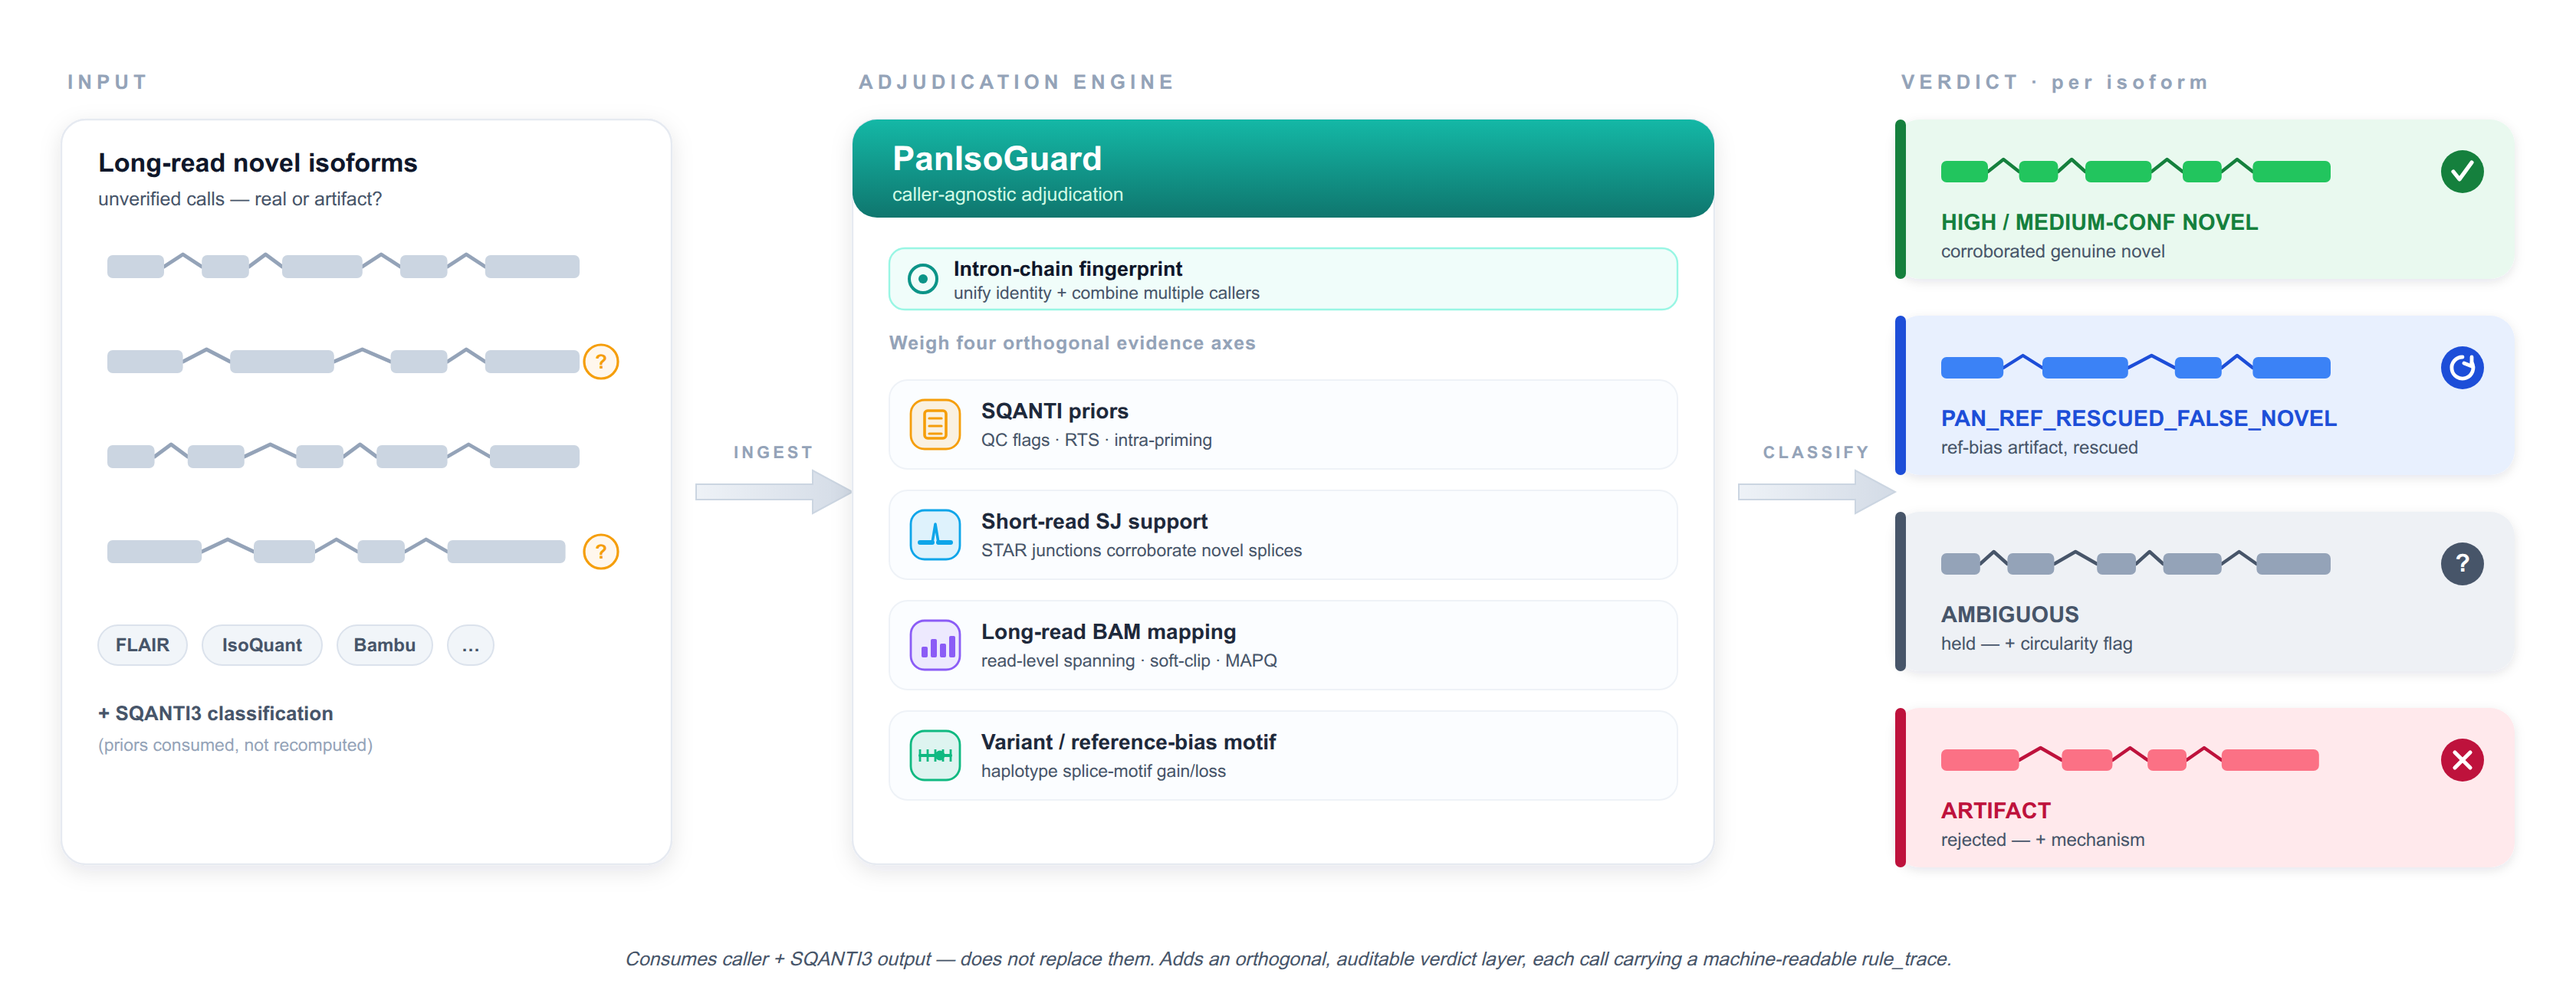
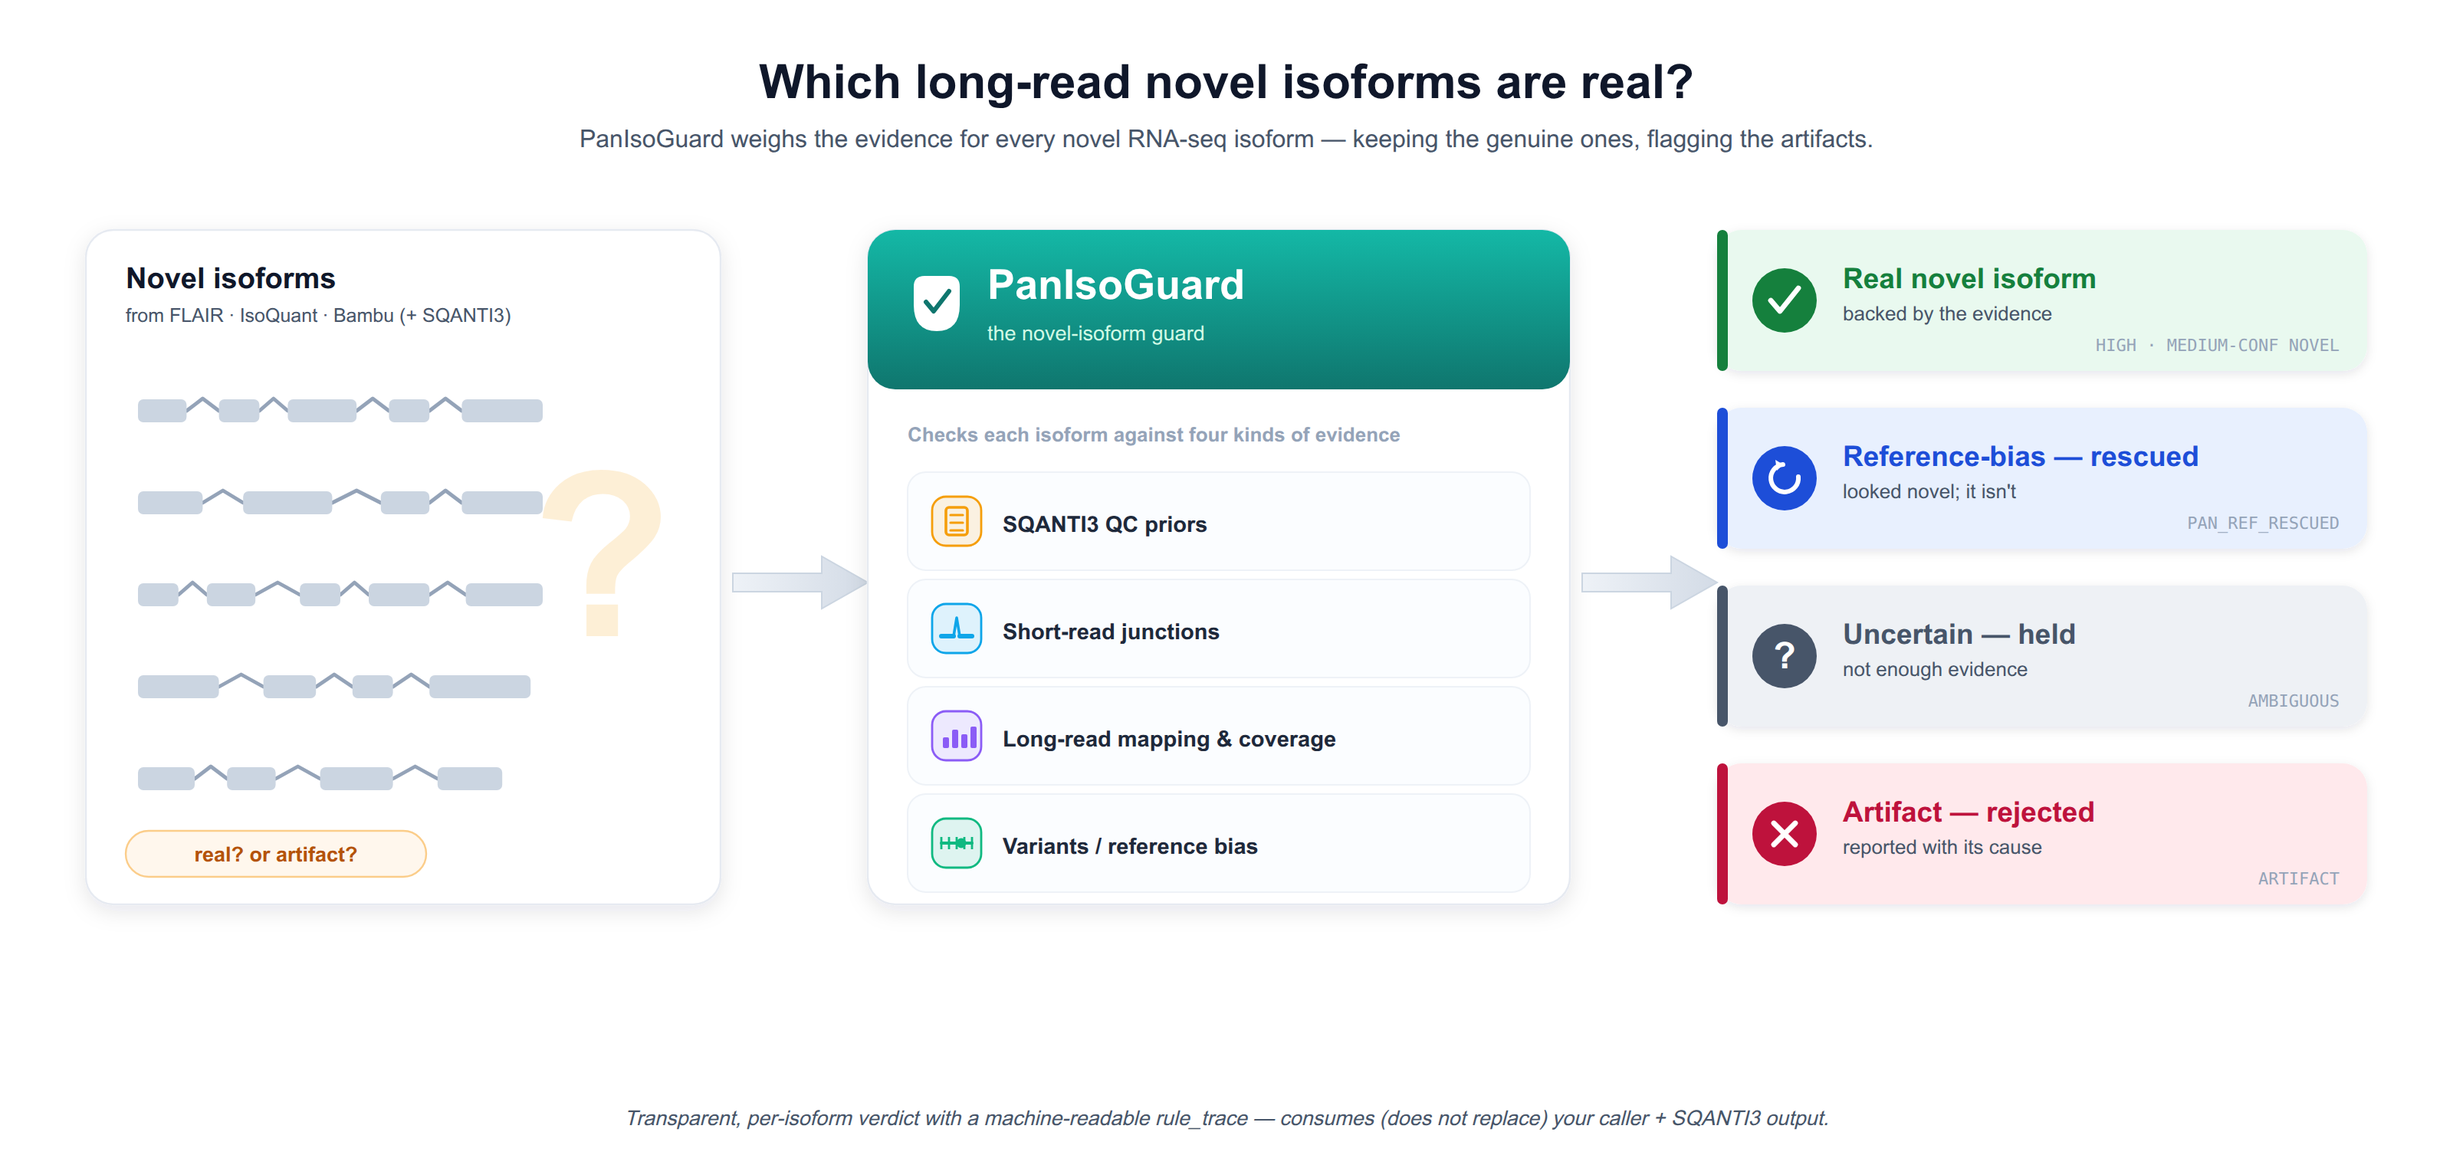
docs: friendlier overview figure + add Usage section with examples
- Redraw At-a-glance as an intuitive problem -> guard -> verdict story:
  uncertain novel isoforms -> PanIsoGuard checks four kinds of evidence ->
  plain-language outcomes (real / reference-bias rescued / uncertain / artifact)
- Add Usage: baseline / recommended / haplotype-rescue adjudicate examples,
  combine, output-file table, and benchmark/ablate one-liners

diff --git a/README.md b/README.md
@@ -17,7 +17,7 @@ and each verdict carries a `rule_trace`; see [docs/decision_engine.md](docs/deci
 
 ## At a glance
 
-![PanIsoGuard adjudication overview: multi-caller novel isoform calls plus SQANTI3 are unified by intron-chain fingerprint and weighed across four orthogonal evidence axes into a confidence-graded per-isoform verdict.](docs/figures/overview.png)
+![PanIsoGuard overview: long-read novel isoform calls (real or artifact?) are checked against four kinds of evidence — SQANTI QC priors, short-read junctions, long-read mapping, and variants/reference bias — and sorted into plain-language verdicts: real novel, reference-bias rescued, uncertain (held), or artifact.](docs/figures/overview.png)
 
 <sub>Consumes caller + SQANTI3 output (does not replace them); adds an orthogonal,
 auditable verdict layer, each call carrying a machine-readable `rule_trace`. The four
@@ -43,6 +43,85 @@ output classes shown are a simplified grouping — the full set is listed
 | `version`    | version, linked htslib, compiled-in capabilities |
 
 `panisoguard <command> --help` for options. Input formats: [docs/input_formats.md](docs/input_formats.md).
+
+## Usage
+
+`adjudicate` is the main entry point. The **only** hard requirements are a SQANTI3
+classification and an output prefix — every evidence input below is optional and
+simply switches on another axis (see [Evidence tiers](#evidence-tiers)).
+
+**Baseline** — SQANTI priors only (no short/long-read evidence; novel calls are
+flagged or held, never positively confirmed):
+
+```bash
+panisoguard adjudicate \
+  --classification sample_classification.txt \
+  --isoforms-bed   flair.isoforms.bed \
+  --ref-gtf        gencode.v49.annotation.gtf \
+  --out-prefix     out/sample
+```
+
+**Recommended** — add short-read junctions (`--sj-tab`) and the long-read BAM
+(`--bam`), the two axes that let a novel isoform be confirmed or rejected on evidence:
+
+```bash
+panisoguard adjudicate \
+  --classification sample_classification.txt \
+  --isoforms-bed   flair.isoforms.bed \
+  --ref-gtf        gencode.v49.annotation.gtf \
+  --sj-tab         star.SJ.out.tab \
+  --bam            aligned.sorted.bam \
+  --reference      GRCh38.fa \
+  --out-prefix     out/sample
+```
+
+**Reference-bias rescue** — add a personalized haplotype FASTA. Provenance gates the
+circularity firewall: `wgs`/`external` may promote to a rescue verdict, while
+`rna_derived`/`unknown` are held as `AMBIGUOUS`:
+
+```bash
+panisoguard adjudicate \
+  --classification sample_classification.txt \
+  --isoforms-bed   flair.isoforms.bed \
+  --ref-gtf        gencode.v49.annotation.gtf \
+  --reference      GRCh38.fa \
+  --reference-haplotype sample.hap1.fa \
+  --reference-haplotype sample.hap2.fa \
+  --haplotype-provenance wgs \
+  --out-prefix     out/sample
+```
+
+**Combine several callers first** (optional) — merge isoforms by intron-chain
+fingerprint into a caller-support matrix, then feed the union to `adjudicate`:
+
+```bash
+panisoguard combine \
+  --gtf flair:flair.gtf \
+  --gtf isoquant:isoquant.gtf \
+  --gtf bambu:bambu.gtf \
+  --ref-gtf gencode.v49.annotation.gtf \
+  --out caller_support_matrix.tsv
+```
+
+### Outputs
+
+`adjudicate` writes three files at `<out-prefix>`:
+
+| File | Contents |
+|------|----------|
+| `<prefix>.adjudicated.tsv`   | one row per isoform — confidence class, primary mechanism, novel-junction support counts |
+| `<prefix>.attribution.jsonl` | per-isoform `rule_trace`: every rule that fired, in order (fully auditable) |
+| `<prefix>.provenance.log`    | which axes were active + circularity status of the run |
+
+### Reviewer-facing analyses
+
+```bash
+# non-redundancy vs the SQANTI3 filter on novel isoforms (2x2, Jaccard, McNemar)
+panisoguard benchmark [adjudicate options] --out bench/
+
+# per-axis contribution: which calls change when an axis is removed
+panisoguard ablate    [adjudicate options] --axes short_read,mapping,variant --out abl/
+```
 
 ## Confidence classes
 
